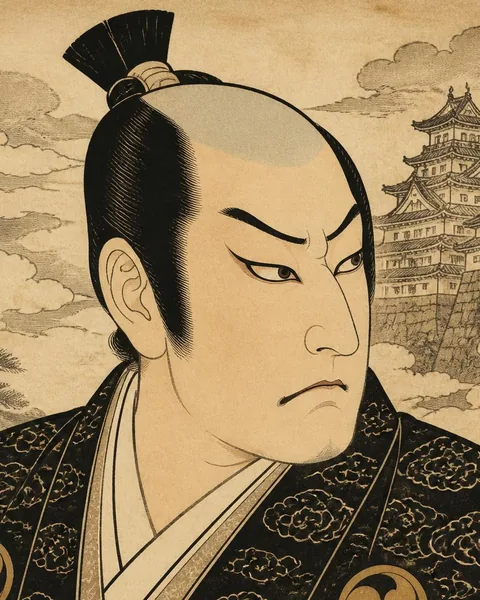
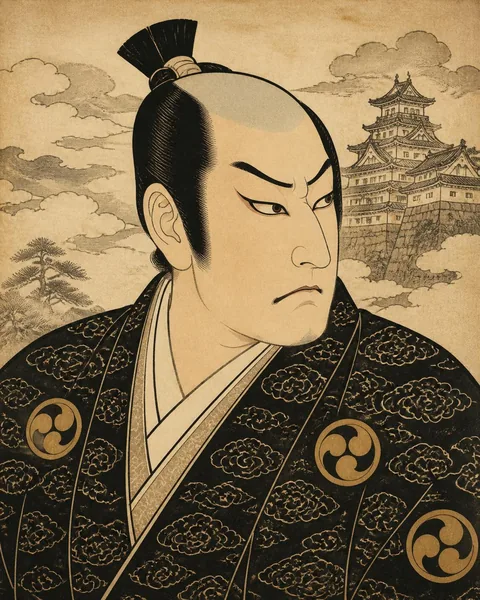
Quiz as a kabuki stage: the Lord and the Ninja stand full height on either side
- Section in the prints' paper tone; figures blend into it and stand on the floor
- The Lord leans in with each question; the Ninja waits in the shadows, steps out
  with a puff of smoke and nods; phones show the Lord beside his question and the
  Ninja only while he speaks
- Options as 2x2 cards on desktop; readable tap hint; Portrait frames removed

Claude-Session: https://claude.ai/code/session_01W7xJuJLT164ew2d7KNvQh3

diff --git a/scripts/make-character.py b/scripts/make-character.py
@@ -1,10 +1,10 @@
 #!/usr/bin/env python3
-"""Make the quiz character portraits (Portrait.astro) from a source illustration.
+"""Make the quiz stage characters (the Lord and your Ninja in NinjaQuiz.astro) from a source illustration.
 
 Usage: python3 scripts/make-character.py <lord|ninja> <source image> [left top right bottom] [--flip]
 The optional crop box is in fractions of the source (default: the whole image), trimmed to 4:5 around its centre.
 --flip mirrors the picture so the character faces their speech bubble (the Ninja stands to the right of his).
-Writes public/images/characters/<who>-240.webp and -480.webp.
+Writes public/images/characters/<who>-480.webp and -960.webp.
 """
 import sys
 from pathlib import Path
@@ -28,6 +28,6 @@ if flip:
     crop = crop.transpose(Image.FLIP_LEFT_RIGHT)
 out = Path(__file__).resolve().parent.parent / 'public/images/characters'
 out.mkdir(parents=True, exist_ok=True)
-for width in (240, 480):
-    crop.resize((width, width * 5 // 4), Image.LANCZOS).save(out / f'{who}-{width}.webp', 'WEBP', quality=82, method=6)
+for width in (480, 960):
+    crop.resize((width, width * 5 // 4), Image.LANCZOS).save(out / f'{who}-{width}.webp', 'WEBP', quality=82 if width < 900 else 70, method=6)
     print(out / f'{who}-{width}.webp')

diff --git a/CLAUDE.md b/CLAUDE.md
@@ -150,7 +150,7 @@
   - 絵巻の見出し横と最後に「↺ Ask again」「Try another mission」：絵巻が隠れ、診断が1問目から出直す（`ngt:mission-reset`）。上の「Let the scroll decide」リンク（`#quiz`）でも診断に戻る。
   - 動きを減らす設定では、煙とドン！なしで絵巻に切り替わる（横スワイプの帯）。
 - **殿と忍者のやりとり**：質問は殿の吹き出し（「The Lord asks · 01」）。答えると忍者が頷きながら返事をする（「Umu, umu. Asakusa. Noted.」など）。結果は殿の「It is decided. Untie the scroll, traveler.」。
-  - 殿・忍者は浮世絵風の肖像（`Portrait.astro`：額＋縦書きの名札。殿は質問のたびに身を乗り出し、忍者は額の中で2回頷く）。画像は `public/images/characters/<lord|ninja>-240/480.webp`、`python3 scripts/make-character.py <lord|ninja> <元画像> [左 上 右 下]` で作る。
+  - 殿・忍者は**舞台型**（2026-09-25 ご本人選択「枠ではなくダイナミックに」→案A）：診断の欄を浮世絵の紙色（`#d2b27f`＋和紙の粒子）にし、PCは左に殿・右に忍者を欄の高さいっぱいに立たせ（絵の縁は紙にぼかし込み、床に立つ）、中央に見出し・回答欄・質問を置く。殿は質問のたびに身を乗り出し、忍者は最初は影の中（半透明）→答えると煙と一緒に踏み出して2回頷く。スマホは殿が左上に大きく立ち、その右に質問の吹き出し。忍者は頷く間と巻物の場面だけ右下に出る。選択肢はPCで2×2の横長カード。名札（殿・忍）は縦書きの題箋。画像は `public/images/characters/<lord|ninja>-480/960.webp`（遅延読み込み）、`python3 scripts/make-character.py <lord|ninja> <元画像> [左 上 右 下] [--flip]` で作る。
   - イラストのトーン（2026-09-25 ご本人指定）：浮世絵の役者絵（墨の黒・生成り・セピア・くすんだ金、雲の文様、渦巻く煙）。Pinterest の参考画像（志楽画 ICHIRAKU STUDIO など）は他人の作品のため**そのまま使わない**。Canva の画像生成（文章の指示だけ、参考画像なし）で作った将軍・忍者の下絵をご本人がOK（Canva media MAHWMzWSlmA／MAHWM7XYP7E）。作業環境から Canva には接続できないため、ご本人がチャットに添付した元画像（1136×1408）から作成（将軍は顔まわりを切り抜き、忍者は吹き出しの方を向くよう左右反転 `--flip`）。生成画像は著作権が保証されないため、将来は作家への描き下ろし依頼で差し替える案（C案）を提示済み。
 - **浅草ナイト**：行程5場面＋ギャラリー6枚を Drive「素材_2609｜浅草ナイトツアー」から追加（`public/images/tours/asakusa-night-photo-walk/`）。ツアーページにも絵巻が出る。診断の候補にも入れた（準備中は点数を少し下げる。選ばれたら「Launching soon」「Ask about dates」）。
   - 写真は1024pxのストック素材。ライセンスの確認が必要。Adobe Stock の透かしがある I11 は使っていない。
